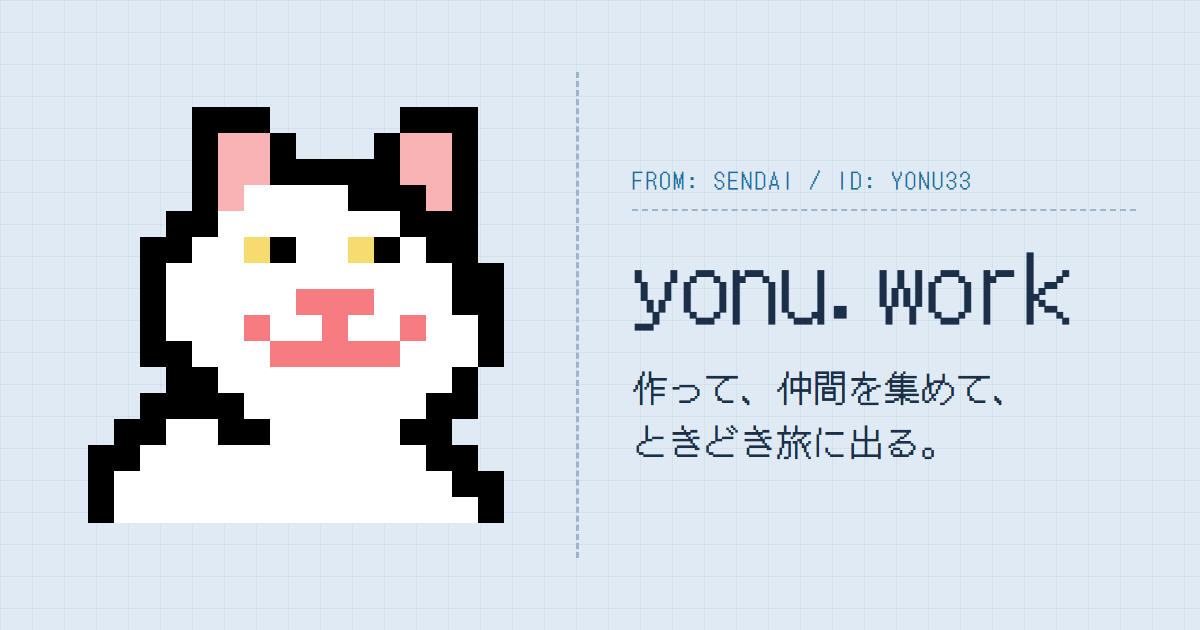
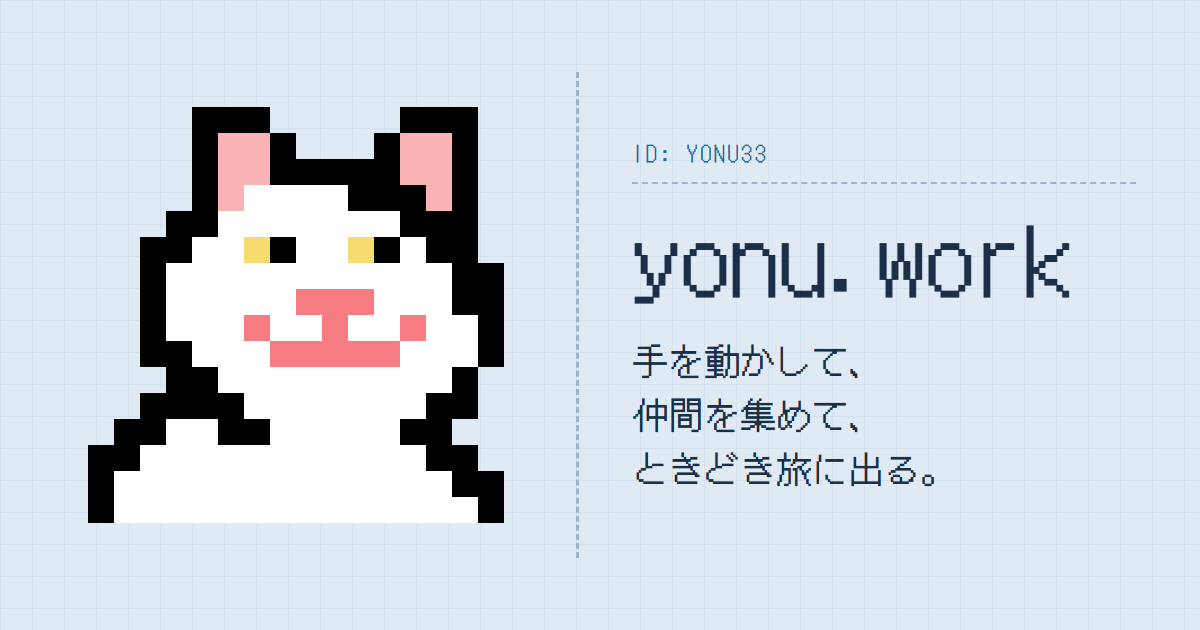
update: 手を動かして description, SOMEWHERE/TRANSIT ticket, keep profile table out of snippets
- Description and OGP image: 手を動かして、仲間を集めて、ときどき旅に出る。
- OGP image keeps only ID: YONU33 on the top line
- Ticket meta: FROM: SENDAI / TO: SOMEWHERE / TRANSIT: AIZU, wrapping only between items
- data-nosnippet on the profile table

Changed region(s): [[0.5242, 0.3317, 0.8942, 0.7841], [0.5242, 0.2111, 0.8325, 0.3016]]

diff --git a/scripts/og/og.html b/scripts/og/og.html
@@ -71,9 +71,9 @@
   <img class="cat" src="cat.png" alt="">
   <div class="perforation"></div>
   <div class="text">
-    <p class="meta">FROM: SENDAI / ID: YONU33</p>
+    <p class="meta">ID: YONU33</p>
     <p class="name">yonu.work</p>
-    <p class="lead">作って、仲間を集めて、<br>ときどき旅に出る。</p>
+    <p class="lead">手を動かして、<br>仲間を集めて、<br>ときどき旅に出る。</p>
   </div>
 </body>
 </html>
